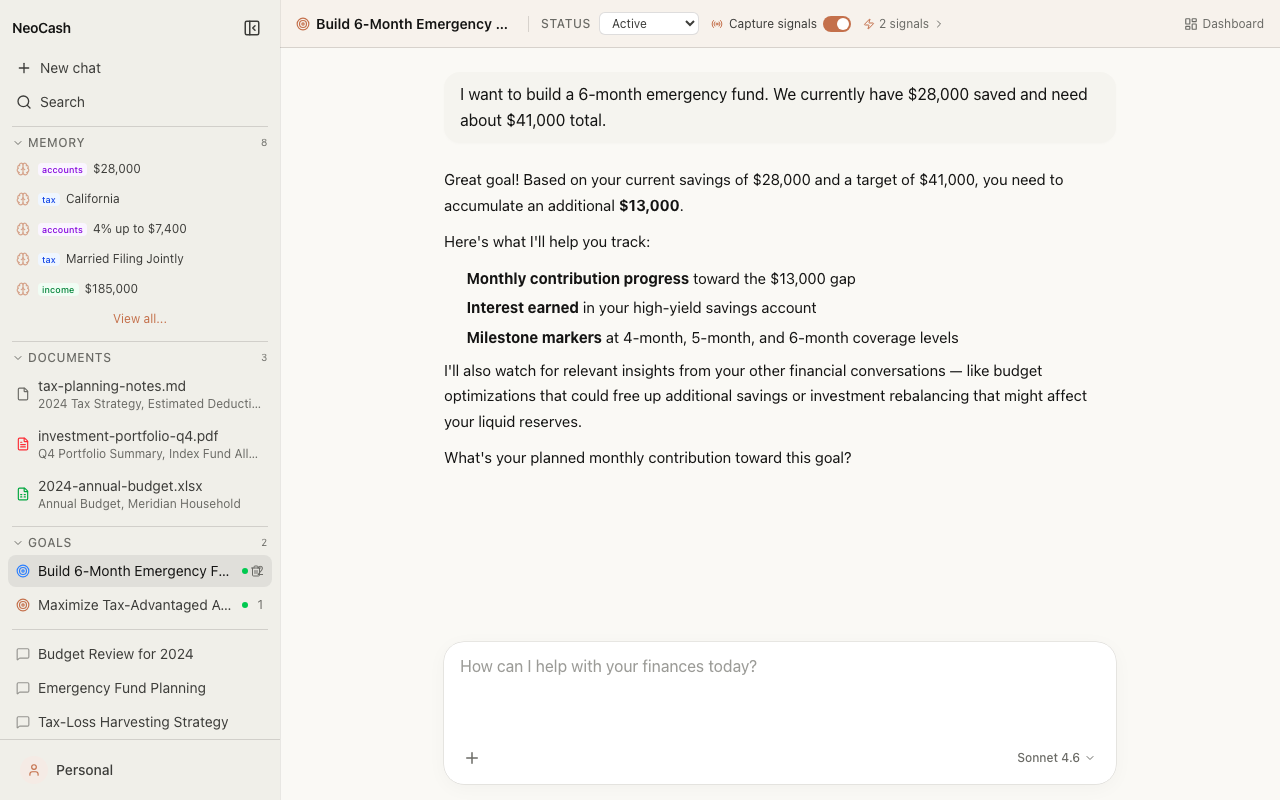
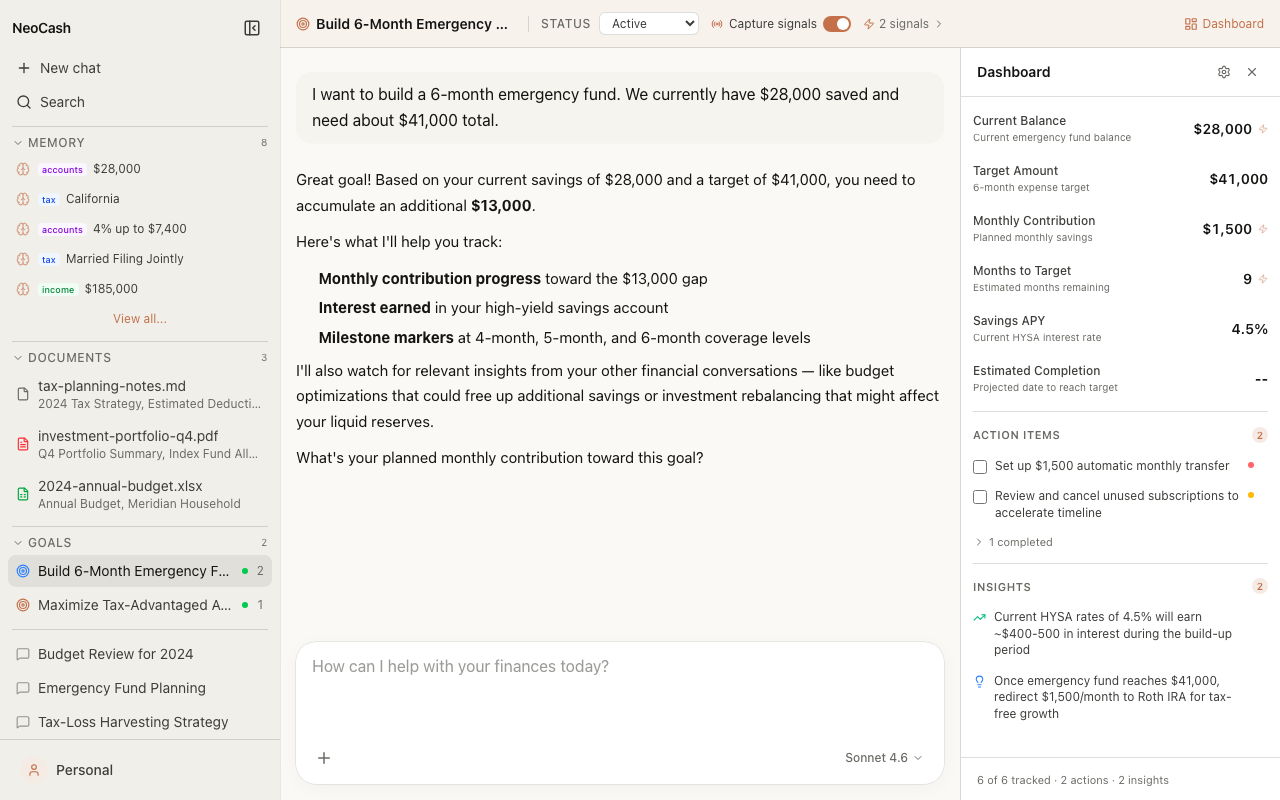
feat: add goal creation screenshot and improve dashboard/signals captures
Recapture goal-dashboard.png with Dashboard panel open showing metrics,
action items, and insights. Fix signals.png to use Emergency Fund goal
(2 signals) with expanded signal list. Add new goals.png showing the
GoalCreateForm with a pre-filled title. Expand README goals section into
three sub-sections showcasing the full goal lifecycle.

diff --git a/scripts/take-screenshots.ts b/scripts/take-screenshots.ts
@@ -52,12 +52,12 @@ async function main() {
   }
 
   // ── Screenshot 1: hero.png ──────────────────────
-  console.log("1/7: hero.png");
+  console.log("1/8: hero.png");
   await waitForSidebar();
   await page.screenshot({ path: join(OUT_DIR, "hero.png") });
 
   // ── Screenshot 2: chat.png ──────────────────────
-  console.log("2/7: chat.png");
+  console.log("2/8: chat.png");
   // Scroll sidebar down to see chats section, then click
   const budgetLink = page.locator('button:has-text("Budget Review")').first();
   await budgetLink.scrollIntoViewIfNeeded();
@@ -66,29 +66,38 @@ async function main() {
   await page.screenshot({ path: join(OUT_DIR, "chat.png") });
 
   // ── Screenshot 3: goal-dashboard.png ────────────
-  console.log("3/7: goal-dashboard.png");
+  console.log("3/8: goal-dashboard.png");
   const emergencyGoal = page.locator('button:has-text("Build 6-Month")').first();
   await emergencyGoal.scrollIntoViewIfNeeded();
   await emergencyGoal.click();
   await page.waitForTimeout(1500);
+  // Open the Dashboard side panel
+  const dashboardBtn = page.locator('button[aria-label="Open dashboard"]');
+  if (await dashboardBtn.isVisible({ timeout: 3000 }).catch(() => false)) {
+    await dashboardBtn.click();
+    await page.waitForTimeout(1000);
+  }
   await page.screenshot({ path: join(OUT_DIR, "goal-dashboard.png") });
 
   // ── Screenshot 4: signals.png ───────────────────
-  console.log("4/7: signals.png");
-  const taxGoal = page.locator('button:has-text("Maximize Tax")').first();
-  await taxGoal.scrollIntoViewIfNeeded();
-  await taxGoal.click();
-  await page.waitForTimeout(1500);
-  // Try to expand signals if there's a toggle
-  const signalExpand = page.locator('button:has-text("signal"), button:has-text("Signal"), [aria-label*="signal"]').first();
-  if (await signalExpand.isVisible({ timeout: 2000 }).catch(() => false)) {
+  console.log("4/8: signals.png");
+  // Close dashboard first if open
+  const closeDashboard = page.locator('button[aria-label="Close dashboard"]');
+  if (await closeDashboard.isVisible({ timeout: 1000 }).catch(() => false)) {
+    await closeDashboard.click();
+    await page.waitForTimeout(500);
+  }
+  // Stay on Emergency Fund goal (has 2 signals vs Tax-Advantaged with 1)
+  // Click the signal count button to expand the signal list
+  const signalExpand = page.locator('button:has-text("signal")').first();
+  if (await signalExpand.isVisible({ timeout: 3000 }).catch(() => false)) {
     await signalExpand.click();
     await page.waitForTimeout(500);
   }
   await page.screenshot({ path: join(OUT_DIR, "signals.png") });
 
   // ── Screenshot 5: context-menu.png ──────────────
-  console.log("5/7: context-menu.png");
+  console.log("5/8: context-menu.png");
   await page.goto(`${BASE_URL}/chat/new`);
   await waitForSidebar();
   // Click the "+" (Add context) button in the chat input area
@@ -107,7 +116,7 @@ async function main() {
   await page.screenshot({ path: join(OUT_DIR, "context-menu.png") });
 
   // ── Screenshot 6: memory.png ────────────────────
-  console.log("6/7: memory.png");
+  console.log("6/8: memory.png");
   // Close any open menu first
   await page.keyboard.press("Escape");
   await page.waitForTimeout(300);
@@ -119,8 +128,29 @@ async function main() {
   }
   await page.screenshot({ path: join(OUT_DIR, "memory.png") });
 
-  // ── Screenshot 7: mobile.png ────────────────────
-  console.log("7/7: mobile.png");
+  // ── Screenshot 7: goals.png ─────────────────────
+  console.log("7/8: goals.png");
+  // Close any open modal
+  await page.keyboard.press("Escape");
+  await page.waitForTimeout(300);
+  await page.goto(`${BASE_URL}/chat/new`);
+  await waitForSidebar();
+  // Click the [+] custom goal button
+  const newGoalBtn = page.locator('button[aria-label="New custom goal"]');
+  if (await newGoalBtn.isVisible({ timeout: 3000 }).catch(() => false)) {
+    await newGoalBtn.click();
+    await page.waitForTimeout(500);
+  }
+  // Type a title to make the form look active
+  const titleInput = page.locator('input[placeholder*="Prepare for Tax"]');
+  if (await titleInput.isVisible({ timeout: 2000 }).catch(() => false)) {
+    await titleInput.fill("Plan for Retirement by 2045");
+    await page.waitForTimeout(300);
+  }
+  await page.screenshot({ path: join(OUT_DIR, "goals.png") });
+
+  // ── Screenshot 8: mobile.png ────────────────────
+  console.log("8/8: mobile.png");
   await page.close();
   const mobileCtx = await browser.newContext({ viewport: MOBILE_VIEWPORT });
   const mobilePage = await mobileCtx.newPage();
@@ -129,7 +159,7 @@ async function main() {
   await mobilePage.screenshot({ path: join(OUT_DIR, "mobile.png") });
 
   await browser.close();
-  console.log("Done! Screenshots saved to docs/screenshots/");
+  console.log("Done! 8 screenshots saved to docs/screenshots/");
 }
 
 main().catch(console.error);

diff --git a/README.md b/README.md
@@ -36,15 +36,29 @@ Choose from eight wealth categories — tax, investing, retirement, budgeting, d
 
 ## Set goals. Let the AI connect the dots.
 
+### Create goals from any starting point
+
 <p align="center">
-  <img src="docs/screenshots/goal-dashboard.png" width="800" alt="Goal thread with dashboard metrics" />
+  <img src="docs/screenshots/goals.png" width="800" alt="Custom goal creation form" />
 </p>
 
-Create financial goals and NeoCash monitors your other conversations for relevant signals. Discussing tax-loss harvesting in one chat? The AI detects that the savings could fund your Roth IRA goal in another. Signals flow between conversations automatically — with dashboard metrics, action items, and insights that populate as you talk.
+Pick from eight wealth categories or create a custom goal. Enter a title and let the AI generate a detailed prompt — or write your own. Each goal becomes a dedicated thread that monitors your other conversations for relevant signals.
+
+### Signals flow between conversations
 
 <p align="center">
   <img src="docs/screenshots/signals.png" width="800" alt="Cross-pollinated signals between conversations" />
 </p>
+
+Discussing tax-loss harvesting in one chat? The AI detects that the savings could fund your emergency fund goal in another. Signals are categorized, summarized, and linked back to their source conversation — cross-pollination happens automatically in the background.
+
+### Metrics that populate as you talk
+
+<p align="center">
+  <img src="docs/screenshots/goal-dashboard.png" width="800" alt="Goal thread with dashboard metrics" />
+</p>
+
+Open the Dashboard panel on any goal to see current balance, target progress, action items with checkboxes, and color-coded insights. Everything populates from your conversations — no manual data entry required.
 
 ---
 
